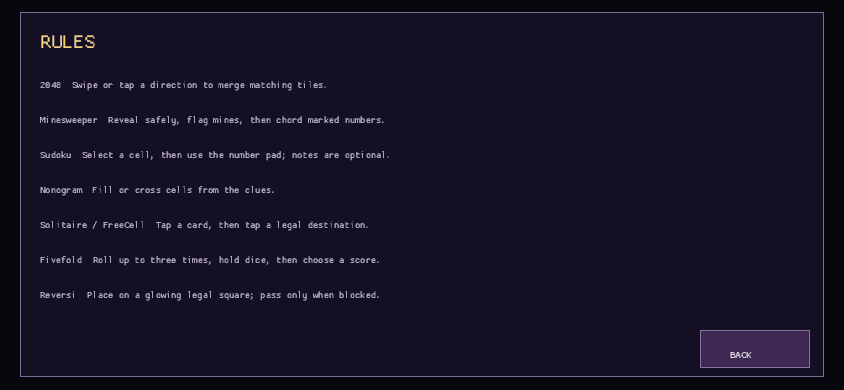
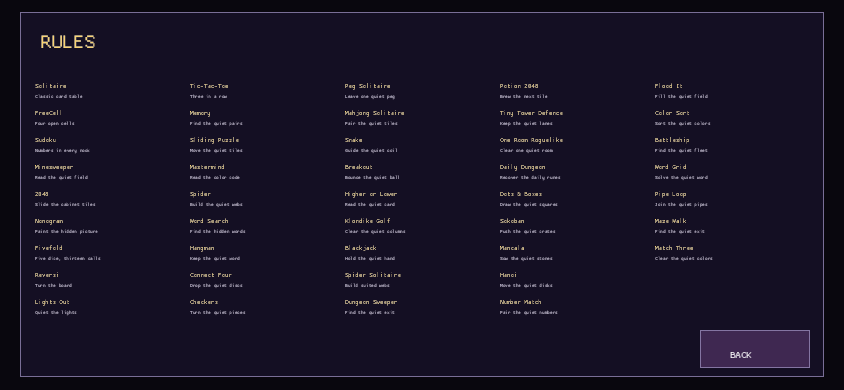
Every drawer explains its quiet purpose (full-cabinet rules guide)
The Rules screen now derives a compact title and objective entry from every game in the forty-three-game cabinet. Desktop, portrait, and medium-landscape layouts each fit the complete guide inside their panels while keeping the BACK action clear, so post-launch drawers no longer disappear from the documentation.\n\nResponsive captures and the full publisher gate verify the collection-wide guide.

diff --git a/src/responsive_landscape_library.rs b/src/responsive_landscape_library.rs
@@ -1,6 +1,11 @@
 //! Medium landscape layouts for library and settings screens.
 
-use crate::{cosmetics, progression::AchievementId, state::AppState, ui::UiAction};
+use crate::{
+    cosmetics,
+    progression::AchievementId,
+    state::{AppState, GameId},
+    ui::UiAction,
+};
 use macroquad::prelude::*;
 
 fn panel(rect: Rect, fill: Color) {
@@ -224,21 +229,17 @@ pub fn draw_rules() {
         Color::new(0.08, 0.06, 0.14, 1.),
     );
     text("RULES", 40., 48., 25., Color::new(0.98, 0.83, 0.45, 1.));
-    let lines = [
-        "2048  Swipe or tap a direction to merge matching tiles.",
-        "Minesweeper  Reveal safely, flag mines, then chord marked numbers.",
-        "Sudoku  Select a cell, then use the number pad; notes are optional.",
-        "Nonogram  Fill or cross cells from the clues.",
-        "Solitaire / FreeCell  Tap a card, then tap a legal destination.",
-        "Fivefold  Roll up to three times, hold dice, then choose a score.",
-        "Reversi  Place on a glowing legal square; pass only when blocked.",
-    ];
-    for (index, line) in lines.iter().enumerate() {
+    for (index, game) in GameId::ALL.iter().enumerate() {
+        let column = index / 9;
+        let row = index % 9;
+        let x = 35. + column as f32 * 155.;
+        let y = 88. + row as f32 * 27.;
+        text(game.title(), x, y, 8., Color::new(0.98, 0.83, 0.45, 1.));
         text(
-            line,
-            40.,
-            88. + index as f32 * 35.,
-            12.,
+            game.subtitle(),
+            x,
+            y + 10.,
+            6.,
             Color::new(0.78, 0.73, 0.86, 1.),
         );
     }

diff --git a/src/responsive_library.rs b/src/responsive_library.rs
@@ -1,6 +1,10 @@
 //! Compact portrait layouts for collection-wide library screens.
 
-use crate::{progression::AchievementId, state::AppState, ui::UiAction};
+use crate::{
+    progression::AchievementId,
+    state::{AppState, GameId},
+    ui::UiAction,
+};
 use macroquad::prelude::*;
 
 fn panel(rect: Rect, fill: Color) {
@@ -242,24 +246,17 @@ pub fn draw_rules() {
         12.,
         Color::new(0.72, 0.68, 0.82, 1.),
     );
-    let lines = [
-        "2048  Swipe or tap arrows.",
-        "Mines  Reveal, flag, then chord.",
-        "Sudoku  Select a cell and number.",
-        "Nonogram  Fill or cross from clues.",
-        "Solitaire  Tap card, then target.",
-        "FreeCell  Move cards to cascades.",
-        "Fivefold  Roll, hold, choose a call.",
-        "Reversi  Place on glowing squares.",
-        "",
-        "All games support visible touch controls.",
-    ];
-    for (index, line) in lines.iter().enumerate() {
+    for (index, game) in GameId::ALL.iter().enumerate() {
+        let column = index / 15;
+        let row = index % 15;
+        let x = 20. + column as f32 * 110.;
+        let y = 145. + row as f32 * 31.;
+        text(game.title(), x, y, 8., Color::new(0.98, 0.83, 0.45, 1.));
         text(
-            line,
-            20.,
-            145. + index as f32 * 36.,
-            12.,
+            game.subtitle(),
+            x,
+            y + 11.,
+            6.,
             Color::new(0.78, 0.73, 0.86, 1.),
         );
     }

diff --git a/src/library_ui.rs b/src/library_ui.rs
@@ -1,6 +1,6 @@
 //! Static collection Rules and Credits screens.
 
-use crate::ui::UiAction;
+use crate::{state::GameId, ui::UiAction};
 use macroquad::prelude::*;
 
 fn panel(rect: Rect) {
@@ -48,13 +48,17 @@ pub fn draw_rules() {
         19.,
         Color::new(0.72, 0.68, 0.82, 1.),
     );
-    let lines = ["2048 — swipe or tap an arrow to merge matching tiles.", "Minesweeper — reveal safely, flag with FLAG MODE or a long press, and chord marked numbers.", "Sudoku — select a cell, then use the number pad; pencil marks and erase are optional.", "Nonogram — fill or cross cells from the clues; drag in a straight row or column.", "Solitaire / FreeCell — tap a card, then tap a legal destination.", "Fivefold — roll up to three times, hold dice, then choose one score row.", "Reversi — place on a glowing legal square; pass only when no move exists."];
-    for (index, line) in lines.iter().enumerate() {
+    for (index, game) in GameId::ALL.iter().enumerate() {
+        let column = index / 11;
+        let row = index % 11;
+        let x = 160. + column as f32 * 245.;
+        let y = 215. + row as f32 * 38.;
+        draw_text(game.title(), x, y, 12., Color::new(0.98, 0.83, 0.45, 1.));
         draw_text(
-            line,
-            174.,
-            215. + index as f32 * 42.,
-            17.,
+            game.subtitle(),
+            x,
+            y + 15.,
+            9.,
             Color::new(0.78, 0.73, 0.86, 1.),
         );
     }

diff --git a/TODO.md b/TODO.md
@@ -632,6 +632,16 @@ sizes, covered by rule tests, and passes `publish.ps1`.
   - [x] Preserve the portrait two-column layout and clear BACK targets.
   - [x] Recapture records at desktop, portrait, and landscape sizes.
 
+## Phase 47 — Full-cabinet rules guide
+
+- [x] Replace the launch-only Rules copy with a responsive, data-driven guide
+  that lists every game in the forty-three-game cabinet.
+  - [x] Keep desktop, portrait, and medium-landscape entries inside their
+    panels with readable objectives and clear BACK controls.
+  - [x] Derive titles and objectives from GameId::ALL so future cabinet games
+    cannot be omitted from the guide.
+  - [x] Capture the Rules screen at all documented viewport sizes.
+
 ## Post-launch candidates (not scheduled)
 
 - Puzzles/tabletop: no remaining scheduled candidates.
